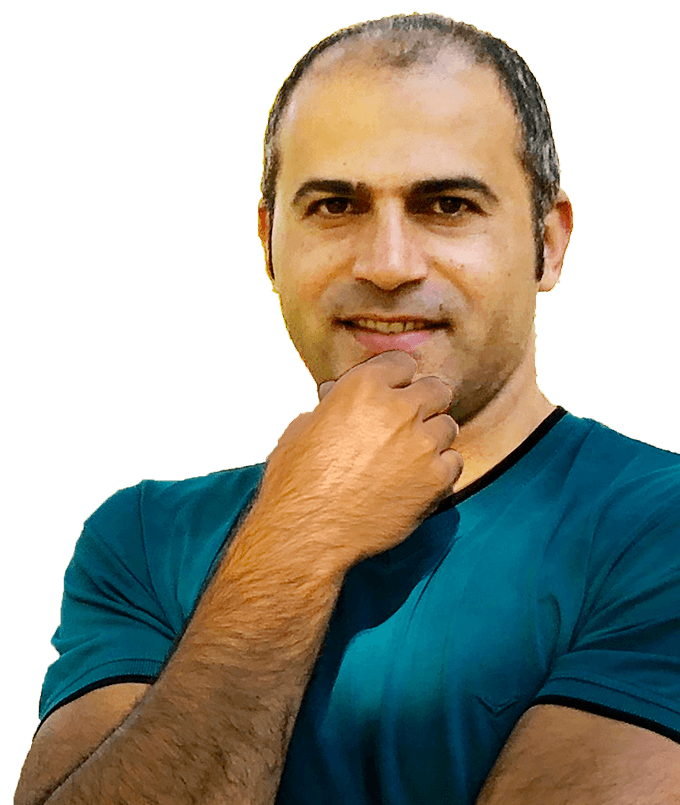
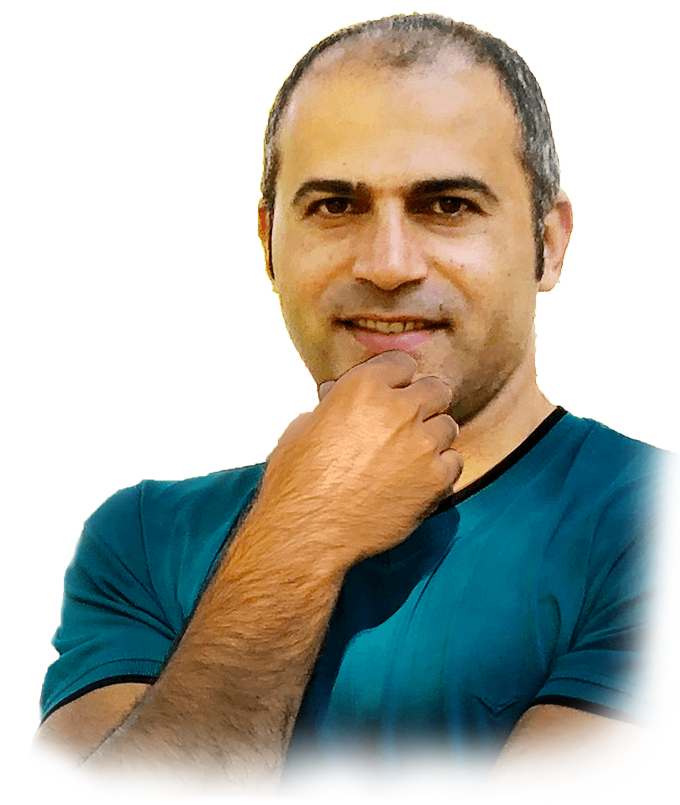
general changes   -- change profile picture   -- changes to downSVGIcon

diff --git a/src/styles/components/Intro/Intro.scss b/src/styles/components/Intro/Intro.scss
@@ -1,19 +1,20 @@
-
-.intro {
+.intro{
   display: flex;
+  // border: 5px solid green;
   flex-direction: column;
   align-items: center;
-  // border: 5px solid green;
-  height: calc(100vh - 8rem);
-  padding-top: 8rem;
+  height: calc(100vh - 15rem);
+  margin-top: 8rem;
   color: #444444;
 }
-.intro_content {
+
+.intro_content{
   // border: 5px solid rgb(206, 75, 70);
-  height: 80vh;
-  padding: 10rem 0 0 0;
+  padding: 2rem 0 0 0;
   animation: pop-in 1s cubic-bezier(0, 0.9, 0.3, 1.2) forwards;
   opacity: 0;
+  height: calc(100vh - 11rem - 20rem);
+  
   h3 {
     font-size: 1.6rem;
     padding-top: 3rem;
@@ -56,7 +57,6 @@
     opacity: 0;
     transform: translateY(-4rem) scale(.8)
   }
-
   100% {
     opacity: 1;
     transform: none;
@@ -64,36 +64,18 @@
 }
 
 .intro_scroll {
-  // border: 5px solid black;
-  height: 3vh;
-  justify-items: center;
-  display: block;
-  height: 2rem;
-  width: 2rem;
+  // border: 1px solid black;
   position: absolute;
   bottom: 0;
-  width: 100%;
-  max-width: 1200px;
-  a {
-    display: flex;
-    justify-content: center;
-  }
+  // here 2rem is the width of .intro_scroll
+  left: calc(50vw - 2rem);
+  height: 4rem;
+  width: 2rem;
+  padding: 1rem;
   animation: bounce 1s cubic-bezier(0, 0.95, 1, 0.85);
   animation-direction: alternate;
   animation-iteration-count: infinite;
   animation-delay: 3s;
-  
-  // img {
-  //   display: block;
-  //   height: 4rem;
-  //   width: 4rem;
-  //   position: absolute;
-  //   bottom: 0;
-  //   animation: bounce 1s cubic-bezier(0, 0.95, 1, 0.85);
-  //   animation-direction: alternate;
-  //   animation-iteration-count: infinite;
-  //   animation-delay: 3s;
-  // }
 }
 @keyframes bounce {
   from {
@@ -110,12 +92,19 @@
   // border: 5px solid orange;
   display: none;
 }
-/***********************************************************************************************/
-/************************** greater than 768px and portrait ************************************/
-/***********************************************************************************************/
+
+.waive {
+  position: relative;
+  bottom: 20vh;
+  z-index: -100;
+}
+// /***********************************************************************************************/
+// /************************** greater than 768px and portrait ************************************/
+// /***********************************************************************************************/
 @media (min-width: 768px) and (orientation: portrait){
   .intro {
     align-items: unset;
+    max-width: 1200px;
   }
   .intro_content {
     padding: 9% 0 0 15%;
@@ -146,10 +135,11 @@
     display: block;
     position: absolute;
     right: 0;
-    bottom: 17vh;
+    bottom: 6vh;
     z-index: -1;
     max-width: 46vh;
-    animation: fade-slide-down 2s ease-out forwards;
+    animation: fade-slide-down 5s cubic-bezier(0, 0.9, 0.3, 1.2) forwards;
+    opacity: 0;
   }
 
   @keyframes fade-slide-down {
@@ -163,9 +153,9 @@
     }
   }
 }
-/***********************************************************************************************/
-/**************************** less than 899px Landscape ****************************************/
-/***********************************************************************************************/
+// /***********************************************************************************************/
+// /**************************** less than 899px Landscape ****************************************/
+// /***********************************************************************************************/
 @media (max-width: 899px) and (orientation: landscape) {
   .intro_content {
     padding: 0;
@@ -174,12 +164,13 @@
     }
   }
 }
-/***********************************************************************************************/
-/************************* Between 900px and 1199px and landscape ******************************/
-/***********************************************************************************************/
+// /***********************************************************************************************/
+// /************************* Between 900px and 1199px and landscape ******************************/
+// /***********************************************************************************************/
 @media (min-width: 900px) and (max-width: 1199px) and (orientation: landscape) {
   .intro {
     align-items: unset;
+    max-width: 1200px;
   }
   .intro_content{
     padding: 9% 0 0 15%;
@@ -204,10 +195,10 @@
     display: block;
     position: absolute;
     right: 0.7rem;
-    bottom: calc(100vh - 85vh);
+    bottom: calc(100vh - 90vh);
     z-index: -1;
     max-height: 47rem;
-    animation: fade-slide-down 2s ease-out forwards;
+    animation: fade-slide-down 5s cubic-bezier(0, 0.9, 0.3, 1.2) forwards;
    }
 
    @keyframes fade-slide-down {
@@ -221,15 +212,20 @@
        transform: none;
      }
    }
+
+   .waive{
+     bottom: 190px;
+   }
 }
 
 
-/***********************************************************************************************/
-/************************* greater than 1200px and landscape ***********************************/
-/***********************************************************************************************/
+// /***********************************************************************************************/
+// /************************* greater than 1200px and landscape ***********************************/
+// /***********************************************************************************************/
 @media (min-width: 1200px) and (orientation: landscape){
   .intro {
     align-items: unset;
+    max-width: 1200px;
   }
   .intro_content {
     padding: 9% 0 0 15%;
@@ -253,15 +249,19 @@
       padding-bottom: 0;
     }
   }
+  .intro_scroll{
+    width: 6rem;
+    height: 6rem;
+  }
   .fullscreen_background {
     display: block;
     position: absolute;
     right: calc((100vw - 1200px)/2);
-    bottom: calc(100vh - 85vh);
+    bottom: 5rem;
     z-index: -1;
     max-height: calc(100vh/1.7);
     opacity: 0;
-    animation: fade-slide-down 2s .5s ease-out forwards;
+    animation: fade-slide-down 5s cubic-bezier(0, 0.9, 0.3, 1.2) forwards;
    }
 
    @keyframes fade-slide-down {
@@ -274,6 +274,9 @@
        opacity: 1;
        transform: none;
      }
+   }
+   .waive{
+     bottom: 250px;
    }
 }
 

diff --git a/src/components/Intro/waive.js b/src/components/Intro/waive.js
@@ -2,18 +2,16 @@ import React from 'react';
 
 const WaiveSVGIcon = ({
   style = {},
-  className = ""
+  className
 }) => (
-<svg  viewBox="0 0 1024 387" version="1.1" xmlns="http://www.w3.org/2000/svg" xmlnsXlink="http://www.w3.org/1999/xlink">
-  <title>Desktop</title>
-  <desc>Created with Sketch.</desc>
-  <defs></defs>
-  <g id="Desktop" stroke="none" strokeWidth="1" fill="none" fillRule="evenodd" fillOpacity="0.122141078">
-      <path d="M0,84.2083809 C116.345145,193.819555 290.9092,193.819555 523.692166,84.2083809 C756.475133,-25.4027936 923.244411,-25.4027936 1024,84.2083809 L1024,284.976946 C932.66639,222.929624 852.120345,222.929624 782.361863,284.976946 C677.724141,378.04793 403.087667,396.870445 271.828111,284.976946 C184.32174,210.381281 93.7123694,210.381281 0,284.976946 L0,84.2083809 Z" id="Rectangle-2-Copy" fill="#1D516F"></path>
-      <path d="M0,108.578941 C87.0279282,-25.5263137 172.777443,-25.5263137 257.248546,108.578941 C383.9552,309.736823 705.152219,174.639824 802.446804,108.578941 C867.309861,64.5383524 941.160926,64.5383524 1024,108.578941 L1024,309.736823 C843.982272,248.052588 675.434516,248.052588 518.356733,309.736823 C361.278951,371.421059 188.493373,371.421059 0,309.736823 L0,108.578941 Z" id="Rectangle-2-Copy-2" fill="#1D516F"></path>
-      <path d="M0.237699651,134.495429 C51.3970049,77.8348571 143.60404,77.8348571 276.858804,134.495429 C476.74095,219.486286 509.485002,83.6798711 677.184175,134.495429 C788.983623,168.372467 904.588898,168.372467 1024,134.495429 L1024,335.500506 C978.632787,310.105315 897.352065,310.105315 780.157836,335.500506 C604.366493,373.593293 599.873916,415.228913 483.217058,335.500506 C366.560199,255.772099 245.853304,299.395712 169.799544,335.500506 C93.7457845,371.6053 68.713099,416.673856 0.237699651,335.500506 C-45.4125666,281.38494 -45.4125666,214.383247 0.237699651,134.495429 Z" id="Rectangle-2-Copy-3" fill="#1D516F"></path>
-  </g>
-</svg>
-)
+  <svg viewBox="0 0 1067 306" version="1.1" className={className}>
+    <g id="Desktop" stroke="none" strokeWidth="1" fill="none" fillRule="evenodd">
+      <path d="M0,135.398306 C215.267694,-0.395789329 384.325797,-34.0466036 507.174306,34.4458637 C630.022816,102.938331 816.63138,111.377833 1067,59.7643693 L1067,235.855434 C881.255099,271.980322 698.189328,283.15721 517.802685,269.3861 C337.416042,255.61499 164.815147,266.152956 0,301 L0,135.398306 Z" id="Rectangle-2-Copy" fillOpacity="0.0924479167" fill="#1D516F"></path>
+      <path d="M0,54.2582881 C144.915189,-6.08609602 313.985967,-6.08609602 507.212332,54.2582881 C700.438698,114.602672 886.902407,103.989618 1066.60346,22.4191249 L1066.60346,301 C1074.99362,298.860001 950.242148,283.028478 692.349039,253.505429 C434.455931,223.982381 203.672918,223.982381 0,253.505429 L0,54.2582881 Z" id="Rectangle-2-Copy-2" fillOpacity="0.0972033514" fill="#1D516F"></path>
+      <path d="M0,75.3254685 C120.000638,40.2248438 284.700521,40.2248438 494.099649,75.3254685 C703.498777,110.426093 894.465561,110.426093 1067,75.3254685 L1067,279.931594 C883.436011,315.614152 693.198462,314.664869 496.287353,277.083745 C299.376245,239.502622 133.947127,238.677132 0,274.607277 L0,75.3254685 Z" id="Rectangle-2-Copy-3" fillOpacity="0.0615942029" fill="#1D516F"></path>
+      <path d="M1067,203.018243 C892.758655,249.985061 730.930262,253.228918 581.514819,212.749814 C257.861916,125.066911 -23.4757637,212.286912 1.55191247,195.216253 C88.3758128,135.996166 412.494171,82.0123818 579.898069,113.067316 C845.634269,162.36378 1008.00158,171.365469 1067,140.072382 L1067,203.018243 Z" id="Line" fillOpacity="0.0860224185" fill="#1D516F"></path>
+    </g>
+  </svg>
+  )
 
 export default WaiveSVGIcon;

diff --git a/src/components/Intro/Intro.js b/src/components/Intro/Intro.js
@@ -5,7 +5,8 @@ import {
   intro_content, 
   intro_scroll, 
   overlay,
-  fullscreen_background
+  fullscreen_background,
+  waive
 } from '../../styles/components/Intro/Intro.scss';
 import background from './background.png';
 import DownSVGIcon from "./down";
@@ -14,7 +15,7 @@ import { Link } from "react-scroll";
 
 
 const Intro = () => (
-  <div>
+  <div style={{ margin: '0 auto'}}>
     <section className={intro_wrapper} >
       <div className={intro}>
         <div className={intro_content}>
@@ -34,13 +35,13 @@ const Intro = () => (
                 smooth={true} 
                 duration={500}
               >
-              <DownSVGIcon className={intro_scroll}/>
+              <DownSVGIcon />
           </Link>
         </div>
         <img src={background} className={fullscreen_background} alt="Mo Hemati background image"/>
-        <div style={{zIndex: '-10', position: 'relative', bottom: 0, width: '100vw', maxWidth: '1200px'}}>
-          <WaiveSVGIcon />
-        </div>
+      </div>
+      <div className={waive}>
+        <WaiveSVGIcon />
       </div>
       <div className={overlay}></div>
     </section>

diff --git a/src/App.js b/src/App.js
@@ -94,26 +94,10 @@ class App extends React.Component{
             <LoadableContacts />
           </div>
         )}
-        
- 
       </div>
     )
   }
 }
-// const App = () => (
-//   <div>
-//     <LoadableHeader />
-//     <LoadableIntro />
-//     <Suspense fallback={<div>Loading ..... </div>}>
-//       <LoadableAboutMe />
-//       <LoadableSkills />
-//       <LoadableEducation />
-//       <LoadableProjects />
-//       <LoadableContacts />
-//     </Suspense>
-    
-//   </div>
-// );
 
 window.addEventListener('load', () => {
   ReactDOM.render(

diff --git a/src/styles/components/AboutMe/AboutMe.scss b/src/styles/components/AboutMe/AboutMe.scss
@@ -3,6 +3,7 @@
 .about_me_container {
   padding: 8rem 0 0 0;
   display: flex;
+  flex-direction: column;
   align-items: center;
   justify-content: center;
   min-height: 90vh;
@@ -11,6 +12,7 @@
 .content_frame {
   border: 0 solid $border-grey;
   width: 93vw;
+  max-width: 1200px;
   border-radius: 25px;
   box-shadow: 0rem 0.125rem 21rem 0rem rgba(0, 0, 0, 0.11);
   line-height: 3.5rem;

diff --git a/src/styles/base/base.scss b/src/styles/base/base.scss
@@ -5,7 +5,6 @@ html {
 body {
   font-size: 1.6rem;
   font-family: Helvetica, Arial, sans-serif;
-  max-width: 1200px;
-  margin: 0 auto;
+  // max-width: 1200px;
   box-sizing: border-box;
 }
